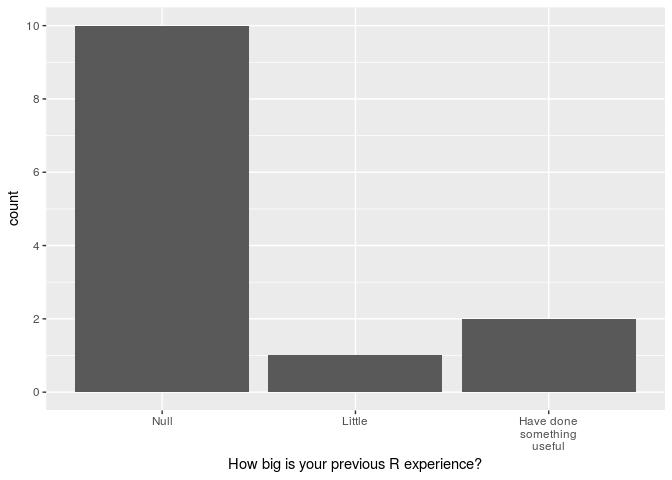
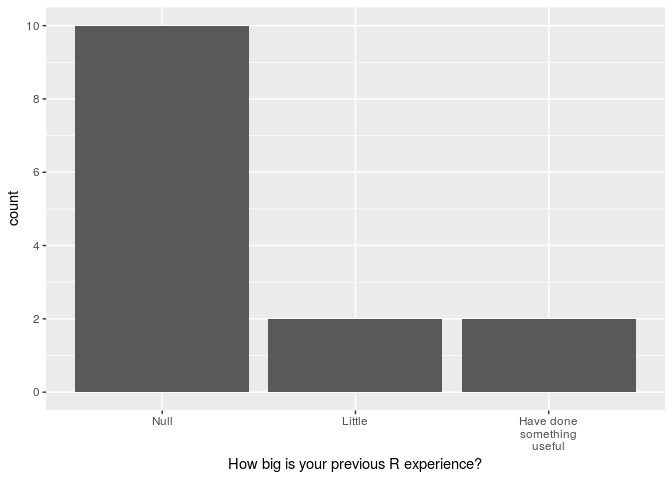
almost there

Changed region(s): [[0.375, 0.6562, 0.6562, 0.75]]

diff --git a/index.md b/index.md
@@ -2,20 +2,30 @@ Pre course survey summary
 ================
 Taavi Päll
 
+To better understand the level of R skills and if they have their own dataset for coursework, students were asked to fill in a short online questionnaire before the course start.
+
+Students were asked for answers to these questions:
+- How big is your previous R experience?
+- What operating system and version your computer is running?
+- Did you have running installation of the following software on your computer?
+- Do you have GitHub account?
+- Do you have your own dataset (at least in mind) that you would like to use for individual project?
+- If you answered 'Yes' to previous question, please describe your dataset (name, how many rows/columns/number of variables, are your values categorical or continuous, csv, json, xls, html, etc.)
+
 Load required functions (libraries):
 
 ``` r
 library(tidyverse)
 ```
 
-    ## ── Attaching packages ────────────────────────────────────────────── tidyverse 1.2.1 ──
+    ## ── Attaching packages ─────────────────────────────────────────────────────────── tidyverse 1.2.1 ──
 
     ## ✔ ggplot2 2.2.1     ✔ purrr   0.2.4
     ## ✔ tibble  1.4.2     ✔ dplyr   0.7.4
     ## ✔ tidyr   0.8.0     ✔ stringr 1.3.0
     ## ✔ readr   1.1.1     ✔ forcats 0.3.0
 
-    ## ── Conflicts ───────────────────────────────────────────────── tidyverse_conflicts() ──
+    ## ── Conflicts ────────────────────────────────────────────────────────────── tidyverse_conflicts() ──
     ## ✖ dplyr::filter() masks stats::filter()
     ## ✖ dplyr::lag()    masks stats::lag()
 
@@ -35,7 +45,7 @@ Download query spreadsheet from google drive:
     ## # A tibble: 42 x 10
     ##    sheet_title  author perm  version updated             sheet_key ws_feed
     ##    <chr>        <chr>  <chr> <chr>   <dttm>              <chr>     <chr>  
-    ##  1 Pre-course … "    … rw    new     2018-03-18 18:14:38 13ukx0z0… https:…
+    ##  1 Pre-course … "    … rw    new     2018-03-18 21:10:51 13ukx0z0… https:…
     ##  2 Tour de Rõu… "    … r     new     2018-03-18 10:27:05 1OR1g2lu… https:…
     ##  3 "          … sande… r     new     2018-03-12 07:10:16 14wc18fo… https:…
     ##  4 Registered … "   c… r     new     2018-02-08 15:56:28 1gDk6bQL… https:…
@@ -58,15 +68,15 @@ Identify query sheet:
 
     ##                   Spreadsheet title: Pre-course survey (Responses)
     ##                  Spreadsheet author: tapa741
-    ##   Date of googlesheets registration: 2018-03-18 20:26:57 GMT
-    ##     Date of last spreadsheet update: 2018-03-18 18:14:38 GMT
+    ##   Date of googlesheets registration: 2018-03-18 21:40:22 GMT
+    ##     Date of last spreadsheet update: 2018-03-18 21:10:51 GMT
     ##                          visibility: private
     ##                         permissions: rw
     ##                             version: new
     ## 
     ## Contains 1 worksheets:
     ## (Title): (Nominal worksheet extent as rows x columns)
-    ## Form Responses 1: 114 x 14
+    ## Form Responses 1: 115 x 14
     ## 
     ## Key: 13ukx0z0KG6FxeMQYW71C56pwTRA4Hmx02EtdGAt9RAg
     ## Browser URL: https://docs.google.com/spreadsheets/d/13ukx0z0KG6FxeMQYW71C56pwTRA4Hmx02EtdGAt9RAg/
@@ -91,7 +101,7 @@ Import data to table (data\_frame):
     ##   `Email Address` = col_character()
     ## )
 
-    ## # A tibble: 13 x 8
+    ## # A tibble: 14 x 8
     ##    Timestamp  `How big is your … `What operating sy… `Did you have runnin…
     ##    <chr>                   <int> <chr>               <chr>                
     ##  1 3/8/2018 …                  5 macOS 10.13.3       R, Rstudio, Git      
@@ -107,6 +117,7 @@ Import data to table (data\_frame):
     ## 11 3/17/2018…                  1 windows 10          R, Rstudio, Git      
     ## 12 3/18/2018…                  1 Window 7            Git                  
     ## 13 3/18/2018…                  1 Windows 10 x64      R, Rstudio, Git      
+    ## 14 3/18/2018…                  2 windows 8           Git                  
     ## # ... with 4 more variables: `Do you have GitHub account?` <chr>, `Do you
     ## #   have your own dataset (at least in mind) that you would like to use
     ## #   for individual project?` <chr>, `If you answered 'Yes' to previous
@@ -121,7 +132,7 @@ Convert wide table to long format (gather):
   gather(key = key, value = value, -Timestamp))
 ```
 
-    ## # A tibble: 91 x 3
+    ## # A tibble: 98 x 3
     ##    Timestamp          key                                    value
     ##    <chr>              <chr>                                  <chr>
     ##  1 3/8/2018 16:25:36  How big is your previous R experience? 5    
@@ -134,7 +145,7 @@ Convert wide table to long format (gather):
     ##  8 3/15/2018 15:37:35 How big is your previous R experience? 1    
     ##  9 3/16/2018 13:23:51 How big is your previous R experience? 1    
     ## 10 3/17/2018 12:31:58 How big is your previous R experience? 2    
-    ## # ... with 81 more rows
+    ## # ... with 88 more rows
 
 Results
 -------
@@ -152,3 +163,68 @@ resp_gathered %>%
 ```
 
 ![](index_files/figure-markdown_github/unnamed-chunk-6-1.png)
+
+Mostly, students declare zero previous experience with R language. Obviously, it seems that five categories that I proposed in questionnaire was too much -- three categories would have been sufficient.
+
+**What operating system and version your computer is running?**
+
+``` r
+os <- resp_gathered %>% 
+  filter(key == "What operating system and version your computer is running?") %>% 
+  select(value, Timestamp) %>% 
+  mutate(value = str_to_lower(value),
+         value = str_remove(value, ",.*| x64"),
+         os = case_when(
+           str_detect(value, "macos") ~ "macOS",
+           str_detect(value, "os x") ~ "OS X",
+           TRUE ~ "Win"
+         ),
+         vers = str_extract(value, "[[:digit:][:punct:]]*( pro)?$"),
+         os = str_c(os, vers, sep = " "))
+os %>% 
+  ggplot() +
+  stat_count(mapping = aes(x = os))
+```
+
+![](index_files/figure-markdown_github/unnamed-chunk-7-1.png)
+
+**Did you have running installation of the following software on your computer?**
+
+``` r
+resp_gathered %>% 
+  filter(str_detect(key, "Did you have running")) %>% 
+  select(value, Timestamp) %>% 
+  ggplot() +
+  stat_count(mapping = aes(x = value))
+```
+
+![](index_files/figure-markdown_github/unnamed-chunk-8-1.png)
+
+It's interesting that **git** was installed on all computers. Perhaps the question was ill-posed by me ...
+
+**Do you have GitHub account?**
+
+``` r
+resp_gathered %>% 
+  filter(key == "Do you have GitHub account?") %>% 
+  select(value, Timestamp) %>% 
+  ggplot() +
+  stat_count(mapping = aes(x = value)) +
+  scale_y_continuous(breaks = seq(from = 0, to = 12, by = 2))
+```
+
+![](index_files/figure-markdown_github/unnamed-chunk-9-1.png)
+
+Again, mostly all have GitHub account ...
+
+``` r
+resp_gathered %>% pull(key) %>% unique()
+```
+
+    ## [1] "How big is your previous R experience?"                                                                                                                                                            
+    ## [2] "What operating system and version your computer is running?"                                                                                                                                       
+    ## [3] "Did you have running installation of the following software on your computer (check all that apply)?"                                                                                              
+    ## [4] "Do you have GitHub account?"                                                                                                                                                                       
+    ## [5] "Do you have your own dataset (at least in mind) that you would like to use for individual project?"                                                                                                
+    ## [6] "If you answered 'Yes' to previous question, please describe your dataset (name, how many rows/columns/number of variables, are your values categorical or continuous, csv, json, xls, html, etc.):"
+    ## [7] "Email Address"
